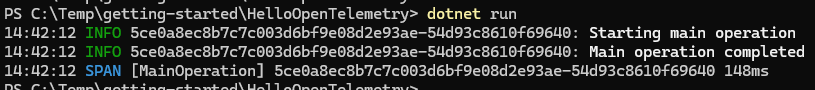
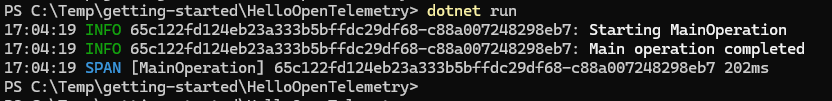
Update getting started examples with screen shots

diff --git a/docs/HelloWorld4-Metrics.md b/docs/HelloWorld4-Metrics.md
@@ -76,22 +76,18 @@ Make several requests to generate metrics:
 
 ```bash
 # In another terminal, make multiple requests
-curl http://localhost:5000
-curl http://localhost:5000/greet/Alice
-curl http://localhost:5000/greet/Bob
-curl http://localhost:5000
-curl http://localhost:5000/greet/Charlie
+curl http://localhost:5213
+curl http://localhost:5213/greet/Alice
+curl http://localhost:5213/greet/Bob
+curl http://localhost:5213
+curl http://localhost:5213/greet/Charlie
 ```
 
 Every 5 seconds, you should see metrics output in the console showing HTTP request metrics:
 
-```
-[timestamp] METRIC [http.server.request.duration] 5s http.request.method=GET http.response.status_code=200 http.route=/ count=2 min=1ms max=3ms
-[timestamp] METRIC [http.server.request.duration] 5s http.request.method=GET http.response.status_code=200 http.route=/greet/{name} count=3 min=1ms max=2ms
-[timestamp] METRIC [http.server.active_requests] 5s count=0
-```
+![ASP.NET startup](images/screen-web-metrics.png)
 
-**Screenshot placeholder:** _[Screenshot showing colored console output with metrics being exported every 5 seconds, including request counts and durations for different endpoints]_
+Note that outputting individual metric counters to the console is not very interesting -- you generally want to send them to an observability platform includes a time series database for statistical analysis of the metrics, such as [Prometheus](https://prometheus.io/).
 
 ## Understanding the Code
 
@@ -138,6 +134,8 @@ This data helps you:
 - Identify which endpoints are most frequently used
 - Spot performance issues (endpoints with high max duration)
 - Monitor application health (status codes, active requests)
+
+Metrics may be cumulative, with varying periods, or additive. For example in the screen shot the metrics at 17:34:11 are for 20s, which overlap with the 15s already reported at 17:34:06. An observability platform will correctly interpret this data for you.
 
 ## Next Steps
 

diff --git a/docs/HelloWorld3-AspNetCore.md b/docs/HelloWorld3-AspNetCore.md
@@ -81,16 +81,13 @@ dotnet run
 
 You should see output indicating the application is listening:
 
-```
-info: Microsoft.Hosting.Lifetime[14]
-      Now listening on: http://localhost:5000
-```
+![ASP.NET startup](images/screen-web-startup.png)
 
 ## Test the Application
 
 Open a web browser or use curl to make requests:
 
-```bash
+```powershell
 # In another terminal
 curl http://localhost:5000
 curl http://localhost:5000/greet/World
@@ -98,14 +95,9 @@ curl http://localhost:5000/greet/World
 
 In your application console, you should see output similar to:
 
-```
-[timestamp] INFO [trace-id-span-id]: Received request to root endpoint
-[timestamp] SPAN [HTTP GET /] [trace-id-span-id] 5ms
-[timestamp] INFO [trace-id-span-id]: Greeting World
-[timestamp] SPAN [HTTP GET /greet/{name}] [trace-id-span-id] 3ms
-```
+![ASP.NET startup](images/screen-web-requests.png)
 
-**Screenshot placeholder:** _[Screenshot showing colored console output with HTTP request spans and log messages, demonstrating automatic tracing of web requests]_
+Note that spans (and trace IDs) are already provided by the ASP.NET core instrumentation.
 
 ## Understanding the Code
 
@@ -144,17 +136,6 @@ This example uses the minimal API pattern introduced in .NET 6. The `MapGet` met
 - Defines an HTTP endpoint
 - Uses dependency injection to provide the logger
 - Returns a response
-
-## Exploring the Trace Data
-
-Notice that each HTTP request generates a span with information about:
-
-- **Operation name**: `HTTP GET /` or `HTTP GET /greet/{name}`
-- **Timing**: How long the request took to process
-- **Trace ID**: A unique identifier for this request
-- **Span ID**: A unique identifier for this specific operation
-
-The log messages include the same trace ID, making it easy to see which logs belong to which request.
 
 ## Understanding Automatic Instrumentation
 

diff --git a/docs/HelloWorld2-Traces.md b/docs/HelloWorld2-Traces.md
@@ -25,7 +25,7 @@ using Microsoft.Extensions.Hosting;
 using Microsoft.Extensions.Logging;
 using OpenTelemetry.Trace;
 
-const string ServiceName = "HelloLogging";
+const string ServiceName = "HelloOpenTelemetry";
 
 // Create an ActivitySource for tracing
 var activitySource = new ActivitySource(ServiceName);
@@ -55,7 +55,7 @@ var tracerProvider = host.Services.GetRequiredService<TracerProvider>();
 // Create a trace
 using (var activity = activitySource.StartActivity("MainOperation"))
 {
-    logger.LogInformation("Starting main operation");
+    logger.LogInformation("Starting {Name}", "MainOperation");
 
     // Simulate some work
     Thread.Sleep(100);
